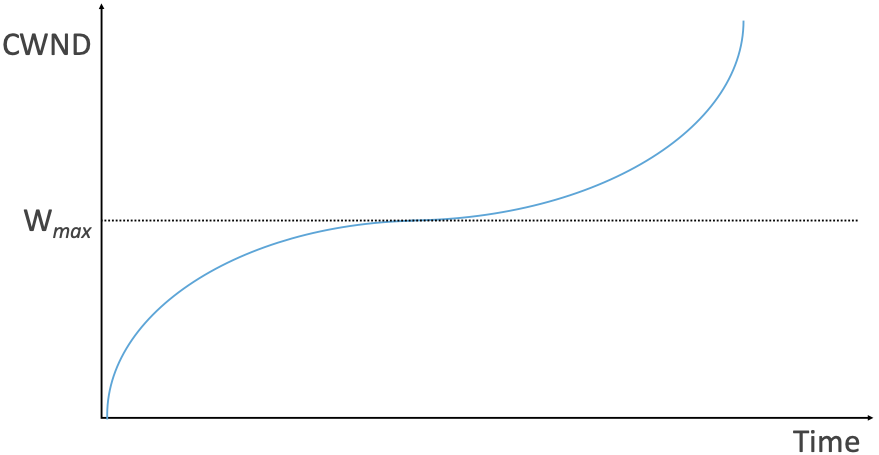
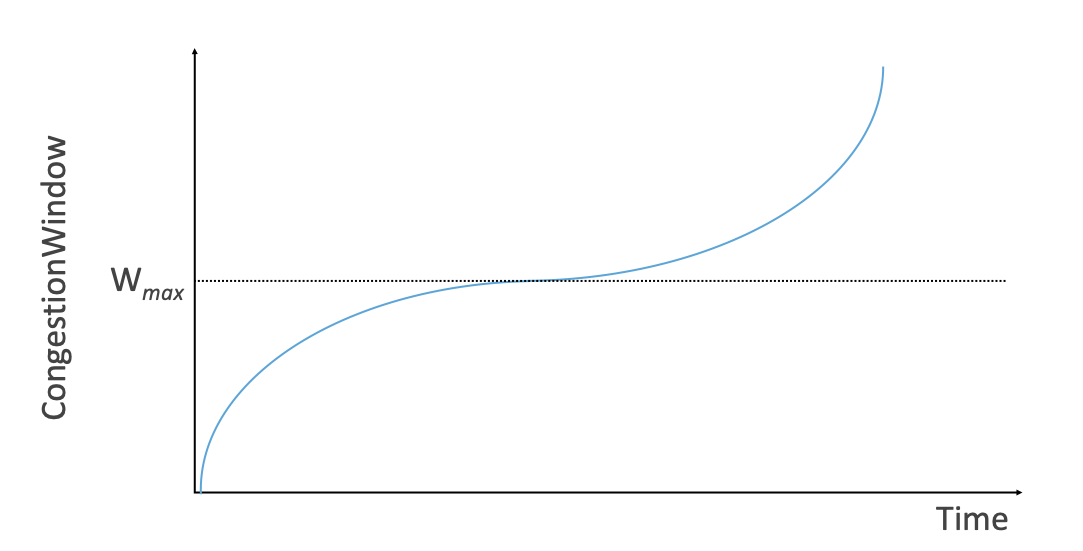
CWND -> CongestionWindow for CUBIC

diff --git a/algorithm.rst b/algorithm.rst
@@ -856,12 +856,12 @@ fast but slows as you get close to :math:`\mathsf{W}_{max}`; then there is a
 phase of cautious growth when close to :math:`\mathsf{W}_{max}`, and finally a
 phase of probing for a new achievable :math:`\mathsf{W}_{max}`. 
 
-Specifically, CUBIC computes the congestion window (CWND) as a function of time 
+Specifically, CUBIC computes the congestion window (``CongestionWindow``) as a function of time 
 (t) since the last congestion event 
 
 .. math::
 
-   \mathsf{CWND(t)} = \mathsf{C} \times \mathsf{(t-K)}^{3} + \mathsf{W}_{max}
+   \mathsf{CongestionWindow(t)} = \mathsf{C} \times \mathsf{(t-K)}^{3} + \mathsf{W}_{max}
 
 where 
 
